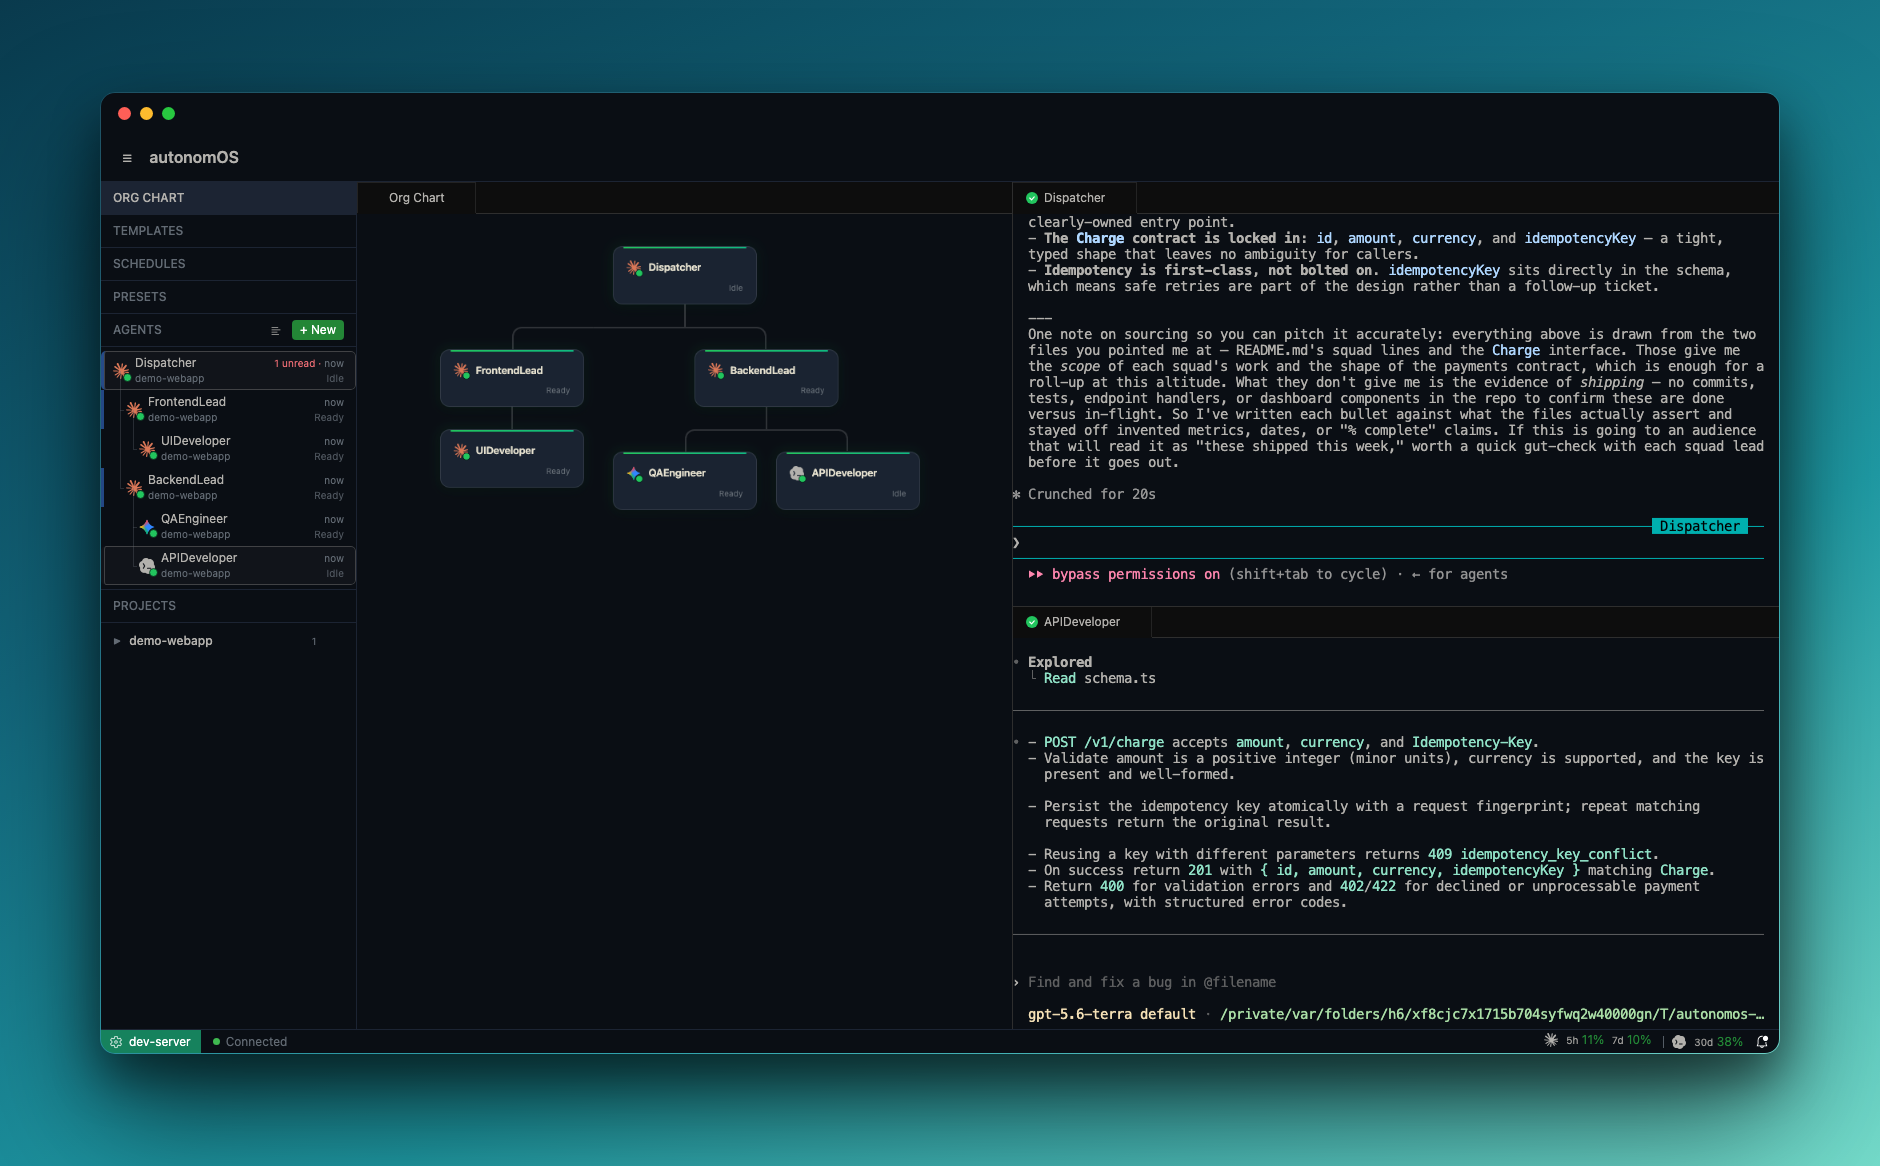
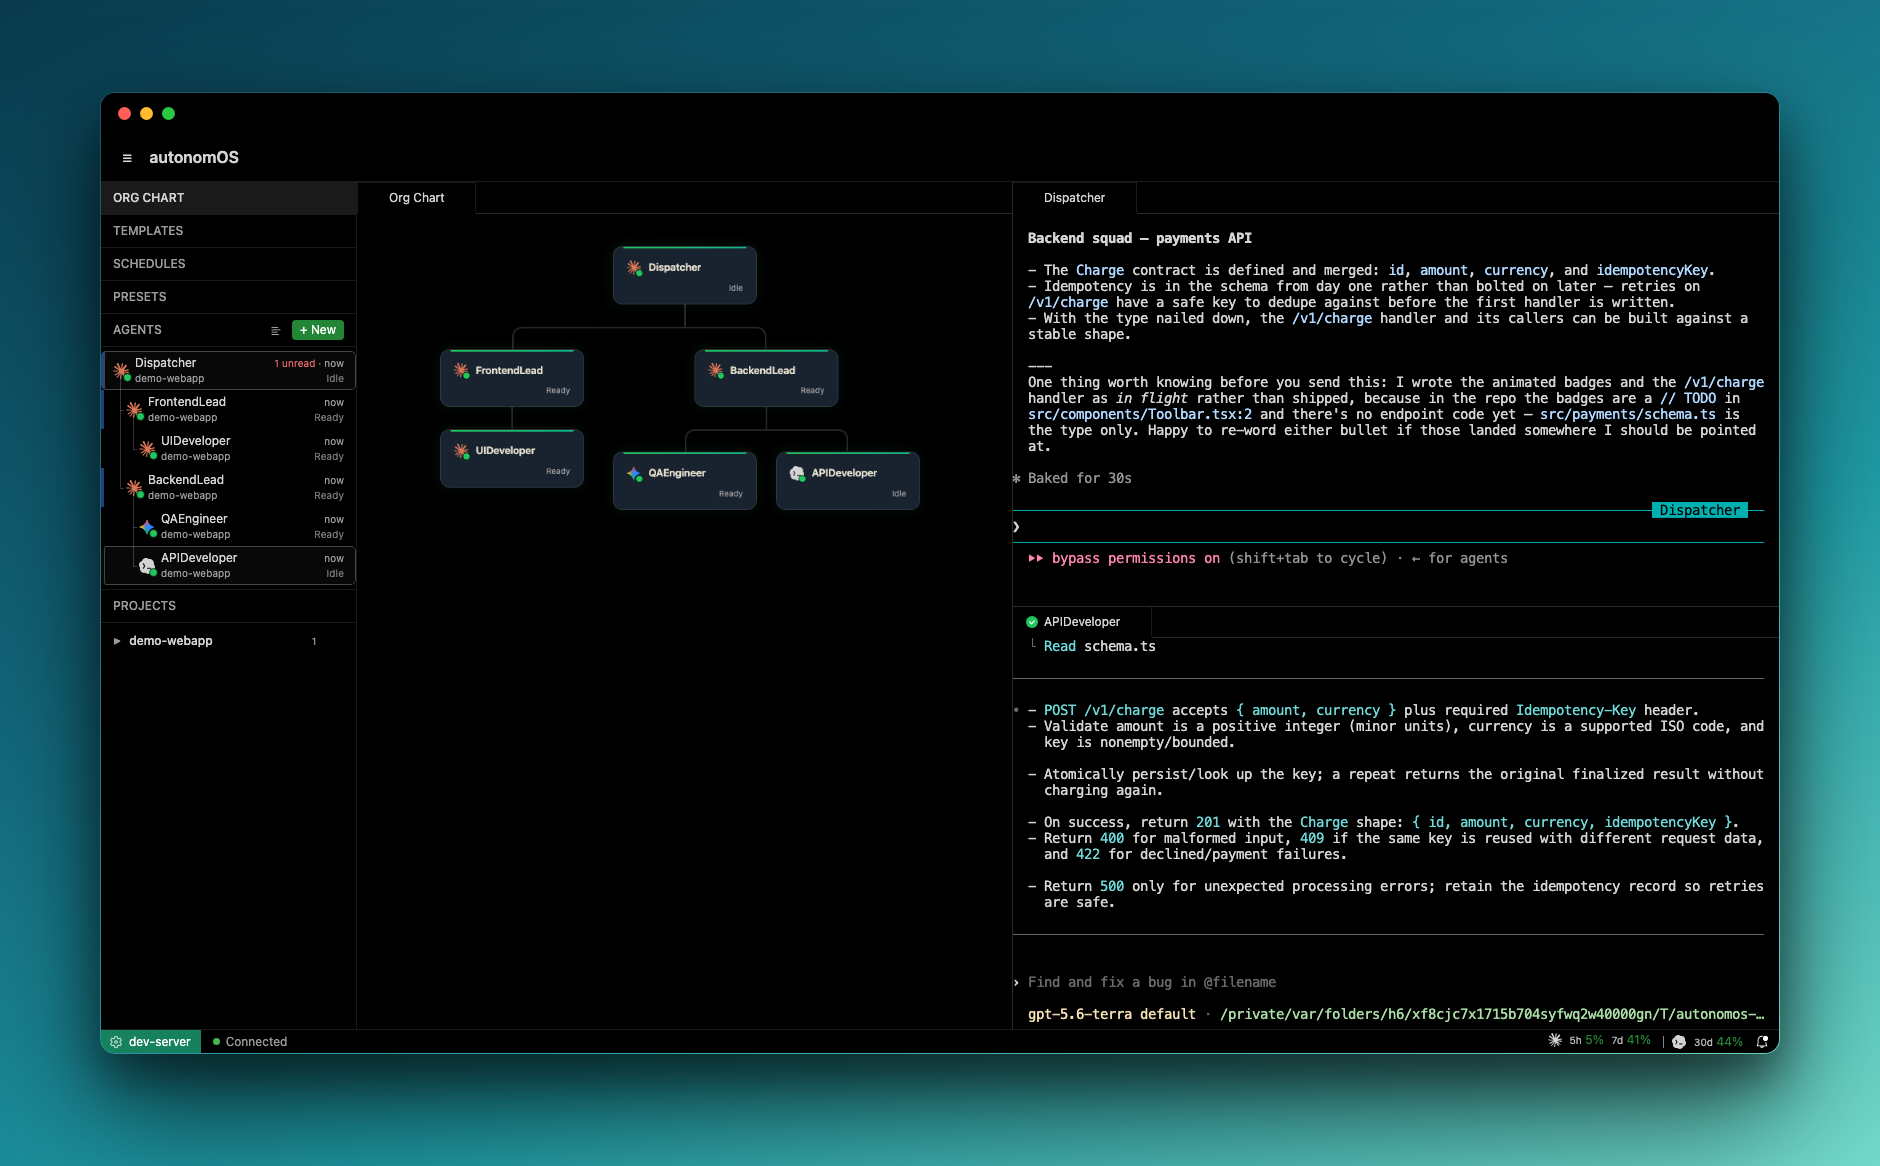
docs(hero): void-theme app window on the sequoia backdrop (#327)
Terry's call: with the teal macOS backdrop in place, the pure-black void
theme gives the window maximum contrast (the earlier void attempt died on a
dark-on-dark mat — that objection no longer applies). THEME midnight → void,
frame title bar #0a0e14 → #000000 to match the app chrome. Full make-hero
re-shoot (real turns, 1880x1166 — same dims, so the site's dimension guard
stays green and the site auto-redeploys on merge).

Known nit for follow-up: the 4 posed statuses 401'd (non-fatal; agents show
'Ready' instead of varied working states) — the pose path likely needs the
per-agent gateway identity from ADR-055 PR B (#293).

Claude-Session: https://claude.ai/code/session_01S3SKqmcdvkaGsC6hW6hdz4

diff --git a/packages/dashboard/scripts/capture-hero.ts b/packages/dashboard/scripts/capture-hero.ts
@@ -951,7 +951,7 @@ async function stageScene(
 }
 
 // ── Web capture ──────────────────────────────────────────────────────────────
-const THEME = "midnight"; // dark navy theme (#0a0e14 bg) — see store.ts THEMES
+const THEME = "void"; // pure-black theme (#000000 bg) — see store.ts THEMES
 const VIEWPORT = { width: HERO_W, height: HERO_H };
 
 type PaneObj =
@@ -1179,7 +1179,7 @@ async function frameMacWindow(
 .mat{ padding:92px 100px 112px; background:linear-gradient(155deg, #093a4d 0%, #12657a 34%, #1f9ca6 66%, #74dac9 100%); display:inline-block; }
 .win{ width:${w}px; border-radius:15px; overflow:hidden; border:1px solid rgba(255,255,255,.08);
   box-shadow:0 2px 0 rgba(255,255,255,.05) inset, 0 60px 120px rgba(0,0,0,.6), 0 24px 48px rgba(0,0,0,.45); }
-.bar{ height:40px; background:#0a0e14; display:flex; align-items:center; gap:9px; padding:0 17px; }
+.bar{ height:40px; background:#000000; display:flex; align-items:center; gap:9px; padding:0 17px; }
 .dot{ width:13px; height:13px; border-radius:50% }
 .r{background:#ff5f57}.y{background:#febc2e}.g{background:#28c840}
 .shot{ display:block; width:${w}px; height:${h}px }
